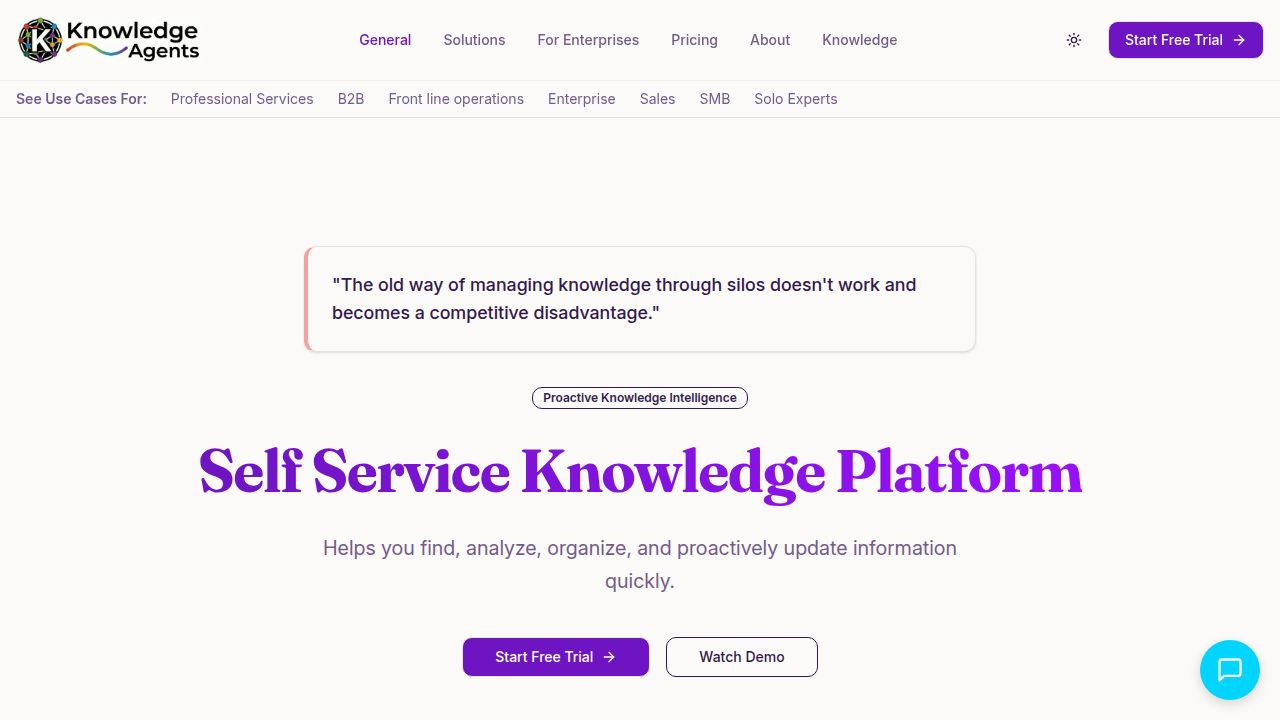
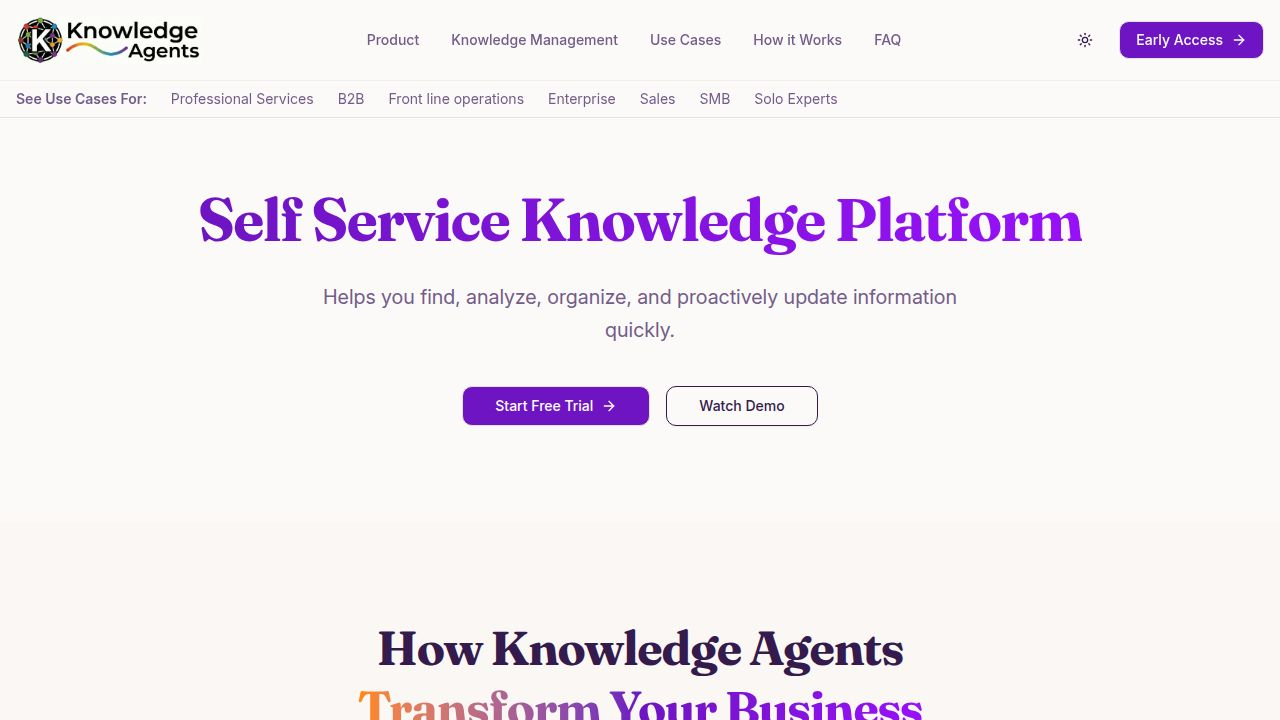
Update webpage content and early access sign-up functionality
Modify navigation links, hero section, and add new content sections to the homepage. Update the waitlist dialog component to collect additional user information such as role and automation goals, and adjust the backend schema to accommodate these new fields. The "Start Free Trial" button text and functionality are updated to "Early Access".

Replit-Commit-Author: Agent
Replit-Commit-Session-Id: 95973deb-f781-4f20-9010-77cc5e164659
Replit-Commit-Checkpoint-Type: intermediate_checkpoint
Replit-Commit-Event-Id: 4d393340-af08-4b30-b889-a25a89d0a525
Replit-Commit-Screenshot-Url: https://storage.googleapis.com/screenshot-production-us-central1/80181541-a19d-434f-b297-858581e07da8/95973deb-f781-4f20-9010-77cc5e164659/vMPrBQc

diff --git a/client/src/components/layout.tsx b/client/src/components/layout.tsx
@@ -26,13 +26,11 @@ export default function Layout({ children }: { children: React.ReactNode }) {
       : logoLight;
 
   const navLinks = [
-    { href: "/", label: "General" },
-    { href: "/solutions", label: "Solutions" },
-    { href: "/product", label: "For Enterprises" },
-    { href: "/pricing", label: "Pricing" },
-    // { href: "/blog", label: "Resources" },
-    { href: "/about", label: "About" },
-    { href: "/knowledge", label: "Knowledge" },
+    { href: "/product", label: "Product" },
+    { href: "/knowledge", label: "Knowledge Management" },
+    { href: "/#use-cases", label: "Use Cases" },
+    { href: "/#how-it-works", label: "How it Works" },
+    { href: "/#faq", label: "FAQ" },
   ];
 
   const isActive = (path: string) => location === path;
@@ -81,8 +79,8 @@ export default function Layout({ children }: { children: React.ReactNode }) {
               <span className="sr-only">Toggle theme</span>
             </Button>
             <WaitlistDialog>
-              <Button className="gap-2" data-testid="button-start-free-trial">
-                Start Free Trial <ArrowRight className="w-4 h-4" />
+              <Button className="gap-2" data-testid="button-early-access">
+                Early Access <ArrowRight className="w-4 h-4" />
               </Button>
             </WaitlistDialog>
           </div>
@@ -123,8 +121,8 @@ export default function Layout({ children }: { children: React.ReactNode }) {
                   </div>
                   <div className="flex flex-col gap-3 mt-4">
                     <WaitlistDialog>
-                      <Button className="w-full gap-2" data-testid="button-start-free-trial-mobile">
-                        Start Free Trial <ArrowRight className="w-4 h-4" />
+                      <Button className="w-full gap-2" data-testid="button-early-access-mobile">
+                        Early Access <ArrowRight className="w-4 h-4" />
                       </Button>
                     </WaitlistDialog>
                   </div>
@@ -135,37 +133,6 @@ export default function Layout({ children }: { children: React.ReactNode }) {
         </div>
       </nav>
 
-      {/* Use Cases Bar */}
-      <div className="border-b bg-background/95 backdrop-blur supports-[backdrop-filter]:bg-background/60">
-        <div className="container mx-auto px-4 py-2 overflow-x-auto no-scrollbar">
-          <div className="flex items-center gap-6 text-sm whitespace-nowrap">
-            <span className="font-semibold text-muted-foreground">
-              See Use Cases For:
-            </span>
-            {[
-              "Professional Services",
-              "B2B",
-              "Front line operations",
-              "Enterprise",
-              "Sales",
-              "SMB",
-              "Solo Experts",
-            ].map((item) => (
-              <Link
-                key={item}
-                href={`/${item.toLowerCase().replace(/ /g, "-")}`}
-                className={`text-muted-foreground hover:text-primary transition-colors ${
-                  isActive(`/${item.toLowerCase().replace(/ /g, "-")}`)
-                    ? "text-primary font-semibold"
-                    : ""
-                }`}
-              >
-                {item}
-              </Link>
-            ))}
-          </div>
-        </div>
-      </div>
 
       {/* Main Content */}
       <main className="flex-1">{children}</main>
@@ -173,8 +140,8 @@ export default function Layout({ children }: { children: React.ReactNode }) {
       {/* Footer */}
       <footer className="border-t bg-secondary/30 py-12 md:py-16">
         <div className="container mx-auto px-4">
-          <div className="grid grid-cols-1 md:grid-cols-4 gap-12 mb-12">
-            <div className="col-span-1 md:col-span-1">
+          <div className="grid grid-cols-1 md:grid-cols-2 gap-12 mb-12">
+            <div>
               <div className="flex items-center gap-2 mb-4">
                 <img
                   src={logoSrc}
@@ -182,71 +149,35 @@ export default function Layout({ children }: { children: React.ReactNode }) {
                   className="h-14 w-auto object-contain"
                 />
               </div>
-              <p className="text-sm text-muted-foreground leading-relaxed">
-                Enterprise AI platform for intelligent document analysis and
-                knowledge orchestration.
+              <p className="text-sm text-muted-foreground leading-relaxed max-w-md">
+                A new Knowledge Management system for actioning and decisioning on enterprise knowledge.
               </p>
             </div>
 
             <div>
-              <h4 className="font-semibold mb-4">Product</h4>
+              <h4 className="font-semibold mb-4">Quick Links</h4>
               <ul className="space-y-2 text-sm text-muted-foreground">
                 <li>
                   <Link href="/product" className="hover:text-primary">
-                    Platform
+                    Product
                   </Link>
                 </li>
                 <li>
-                  <Link href="/solutions" className="hover:text-primary">
-                    Solutions
+                  <Link href="/knowledge" className="hover:text-primary">
+                    Knowledge Management
                   </Link>
                 </li>
                 <li>
-                  <Link href="/pricing" className="hover:text-primary">
-                    Pricing
-                  </Link>
-                </li>
-              </ul>
-            </div>
-
-            <div>
-              <h4 className="font-semibold mb-4">Company</h4>
-              <ul className="space-y-2 text-sm text-muted-foreground">
-                <li>
-                  <Link href="/about" className="hover:text-primary">
-                    About Us
+                  <Link href="/#use-cases" className="hover:text-primary">
+                    Use Cases
                   </Link>
                 </li>
                 <li>
-                  <Link href="/blog" className="hover:text-primary">
-                    Blog
-                  </Link>
-                </li>
-                <li>
-                  <Link href="/contact" className="hover:text-primary">
-                    Contact
-                  </Link>
-                </li>
-              </ul>
-            </div>
-
-            <div>
-              <h4 className="font-semibold mb-4">Connect</h4>
-              <ul className="space-y-2 text-sm text-muted-foreground">
-                <li>
-                  <a href="#" className="hover:text-primary">
-                    Twitter
-                  </a>
-                </li>
-                <li>
-                  <a href="#" className="hover:text-primary">
-                    LinkedIn
-                  </a>
-                </li>
-                <li>
-                  <a href="#" className="hover:text-primary">
-                    GitHub
-                  </a>
+                  <WaitlistDialog>
+                    <span className="hover:text-primary cursor-pointer">
+                      Early Access
+                    </span>
+                  </WaitlistDialog>
                 </li>
               </ul>
             </div>
@@ -254,17 +185,8 @@ export default function Layout({ children }: { children: React.ReactNode }) {
 
           <div className="pt-8 border-t border-border flex flex-col md:flex-row justify-between items-center gap-4 text-sm text-muted-foreground">
             <p>
-              &copy; {new Date().getFullYear()} Knowledge Agents Inc. All rights
-              reserved.
+              &copy; {new Date().getFullYear()} Knowledge Agents. All rights reserved.
             </p>
-            <div className="flex gap-6">
-              <a href="#" className="hover:text-primary">
-                Privacy Policy
-              </a>
-              <a href="#" className="hover:text-primary">
-                Terms of Service
-              </a>
-            </div>
           </div>
         </div>
       </footer>

diff --git a/client/src/components/waitlist-dialog.tsx b/client/src/components/waitlist-dialog.tsx
@@ -9,23 +9,44 @@ import {
 } from "@/components/ui/dialog";
 import { Input } from "@/components/ui/input";
 import { Label } from "@/components/ui/label";
+import { Textarea } from "@/components/ui/textarea";
+import {
+  Select,
+  SelectContent,
+  SelectItem,
+  SelectTrigger,
+  SelectValue,
+} from "@/components/ui/select";
 import { useState } from "react";
 import { useToast } from "@/hooks/use-toast";
 import { useMutation } from "@tanstack/react-query";
 
 interface WaitlistFormData {
-  firstName: string;
-  lastName: string;
-  company: string;
+  fullName: string;
   email: string;
+  company: string;
+  role: string;
+  automationGoal: string;
 }
+
+const roleOptions = [
+  "Finance / Accounting",
+  "Legal",
+  "Compliance",
+  "Internal Audit / Risk",
+  "Private Equity / M&A",
+  "Operations",
+  "IT / Data",
+  "Other",
+];
 
 export default function WaitlistDialog({ children }: { children: React.ReactNode }) {
   const [formData, setFormData] = useState<WaitlistFormData>({
-    firstName: "",
-    lastName: "",
-    company: "",
+    fullName: "",
     email: "",
+    company: "",
+    role: "",
+    automationGoal: "",
   });
   const [open, setOpen] = useState(false);
   const { toast } = useToast();
@@ -48,11 +69,11 @@ export default function WaitlistDialog({ children }: { children: React.ReactNode
     },
     onSuccess: () => {
       toast({
-        title: "You're on the list!",
-        description: "We'll be in touch shortly with early access details.",
+        title: "Thanks — you're on the Early Access list",
+        description: "We'll reach out shortly.",
       });
       setOpen(false);
-      setFormData({ firstName: "", lastName: "", company: "", email: "" });
+      setFormData({ fullName: "", email: "", company: "", role: "", automationGoal: "" });
     },
     onError: () => {
       toast({
@@ -79,48 +100,22 @@ export default function WaitlistDialog({ children }: { children: React.ReactNode
       </DialogTrigger>
       <DialogContent className="sm:max-w-[425px]">
         <DialogHeader>
-          <DialogTitle>Join the Waitlist</DialogTitle>
+          <DialogTitle>Join Early Access</DialogTitle>
           <DialogDescription>
-            Get early access to the first AI-Native Knowledge Orchestrator.
+            Get product updates, demo access, and first priority onboarding.
           </DialogDescription>
         </DialogHeader>
         <form onSubmit={handleSubmit} className="grid gap-4 py-4">
-          <div className="grid grid-cols-2 gap-4">
-            <div className="grid gap-2">
-              <Label htmlFor="firstName">First Name</Label>
-              <Input
-                id="firstName"
-                type="text"
-                placeholder="John"
-                value={formData.firstName}
-                onChange={(e) => updateField("firstName", e.target.value)}
-                required
-                data-testid="input-firstName"
-              />
-            </div>
-            <div className="grid gap-2">
-              <Label htmlFor="lastName">Last Name</Label>
-              <Input
-                id="lastName"
-                type="text"
-                placeholder="Doe"
-                value={formData.lastName}
-                onChange={(e) => updateField("lastName", e.target.value)}
-                required
-                data-testid="input-lastName"
-              />
-            </div>
-          </div>
           <div className="grid gap-2">
-            <Label htmlFor="company">Company Name</Label>
+            <Label htmlFor="fullName">Full Name</Label>
             <Input
-              id="company"
+              id="fullName"
               type="text"
-              placeholder="Acme Inc."
-              value={formData.company}
-              onChange={(e) => updateField("company", e.target.value)}
+              placeholder="John Doe"
+              value={formData.fullName}
+              onChange={(e) => updateField("fullName", e.target.value)}
               required
-              data-testid="input-company"
+              data-testid="input-fullName"
             />
           </div>
           <div className="grid gap-2">
@@ -135,9 +130,55 @@ export default function WaitlistDialog({ children }: { children: React.ReactNode
               data-testid="input-email"
             />
           </div>
-          <Button type="submit" className="w-full" disabled={mutation.isPending} data-testid="button-submit">
-            {mutation.isPending ? "Joining..." : "Join Waitlist"}
+          <div className="grid gap-2">
+            <Label htmlFor="company">Company</Label>
+            <Input
+              id="company"
+              type="text"
+              placeholder="Acme Inc."
+              value={formData.company}
+              onChange={(e) => updateField("company", e.target.value)}
+              required
+              data-testid="input-company"
+            />
+          </div>
+          <div className="grid gap-2">
+            <Label htmlFor="role">Role</Label>
+            <Select
+              value={formData.role}
+              onValueChange={(value) => updateField("role", value)}
+              required
+            >
+              <SelectTrigger data-testid="select-role">
+                <SelectValue placeholder="Select your role" />
+              </SelectTrigger>
+              <SelectContent>
+                {roleOptions.map((role) => (
+                  <SelectItem key={role} value={role}>
+                    {role}
+                  </SelectItem>
+                ))}
+              </SelectContent>
+            </Select>
+          </div>
+          <div className="grid gap-2">
+            <Label htmlFor="automationGoal">What are you hoping to automate?</Label>
+            <Textarea
+              id="automationGoal"
+              placeholder="Describe your use case..."
+              value={formData.automationGoal}
+              onChange={(e) => updateField("automationGoal", e.target.value)}
+              className="resize-none"
+              rows={3}
+              data-testid="input-automationGoal"
+            />
+          </div>
+          <Button type="submit" className="w-full" disabled={mutation.isPending || !formData.role} data-testid="button-submit">
+            {mutation.isPending ? "Submitting..." : "Request Early Access"}
           </Button>
+          <p className="text-xs text-muted-foreground text-center">
+            We'll only use this to contact you about Early Access and onboarding. No spam.
+          </p>
         </form>
       </DialogContent>
     </Dialog>

diff --git a/shared/schema.ts b/shared/schema.ts
@@ -5,10 +5,11 @@ import { z } from "zod";
 
 export const waitlistEntries = pgTable("waitlist_entries", {
   id: varchar("id").primaryKey().default(sql`gen_random_uuid()`),
-  firstName: text("first_name").notNull(),
-  lastName: text("last_name").notNull(),
-  company: text("company").notNull(),
+  fullName: text("full_name").notNull(),
   email: text("email").notNull(),
+  company: text("company").notNull(),
+  role: text("role").notNull(),
+  automationGoal: text("automation_goal"),
   createdAt: timestamp("created_at").notNull().defaultNow(),
 });
 
